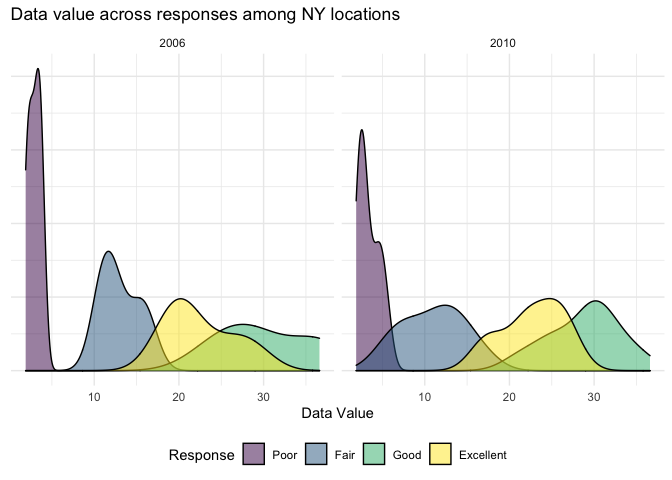
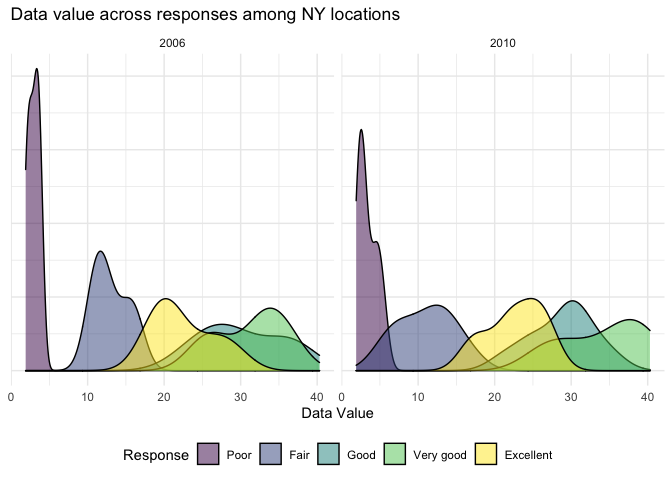
editing "Very good" factor for Q2 plot

diff --git a/p8105_hw3_smm2350.md b/p8105_hw3_smm2350.md
@@ -176,8 +176,8 @@ brfss_tidy = brfss_smart2010 %>%
   janitor::clean_names() %>%
    filter(
     topic %in% "Overall Health",
-    response %in% "Poor" | response %in% "Fair" | response %in% "Good" | response %in% "Very Good" | response %in% "Excellent") %>% 
- mutate(response_ordered = factor(response, ordered = TRUE, levels = c("Poor", "Fair", "Good", "Very Good", "Excellent")))
+    response %in% "Poor" | response %in% "Fair" | response %in% "Good" | response %in% "Very good" | response %in% "Excellent") %>% 
+ mutate(response_ordered = factor(response, ordered = TRUE, levels = c("Poor", "Fair", "Good", "Very good", "Excellent")))
 ```
 
 #### Let’s determine which states were observed at 7 or more locations in 2002 and 2010.
@@ -304,7 +304,14 @@ First, I will load and tidy the accelerometer data.
 
 ``` r
 accel_df = read_csv("accel_data.csv") %>%
-  janitor::clean_names()
+  janitor::clean_names() %>%
+  mutate(
+    day = factor(day, ordered = TRUE,
+                 levels = c("Monday", "Tuesday", "Wednesday", "Thursday", "Friday", "Saturday", "Sunday")),
+    week = factor(week, ordered = TRUE,
+                  levels = c(1:5)),
+    day_class = ifelse(day %in% c("Saturday", "Sunday"), "weekend", "weekday") %>%
+    factor(levels = c("weekday", "weekend"))) 
 ```
 
     ## Rows: 35 Columns: 1443
@@ -317,6 +324,10 @@ accel_df = read_csv("accel_data.csv") %>%
     ## 
     ## ℹ Use `spec()` to retrieve the full column specification for this data.
     ## ℹ Specify the column types or set `show_col_types = FALSE` to quiet this message.
+
+``` r
+view(accel_df)
+```
 
 DESCRIBE!
 
